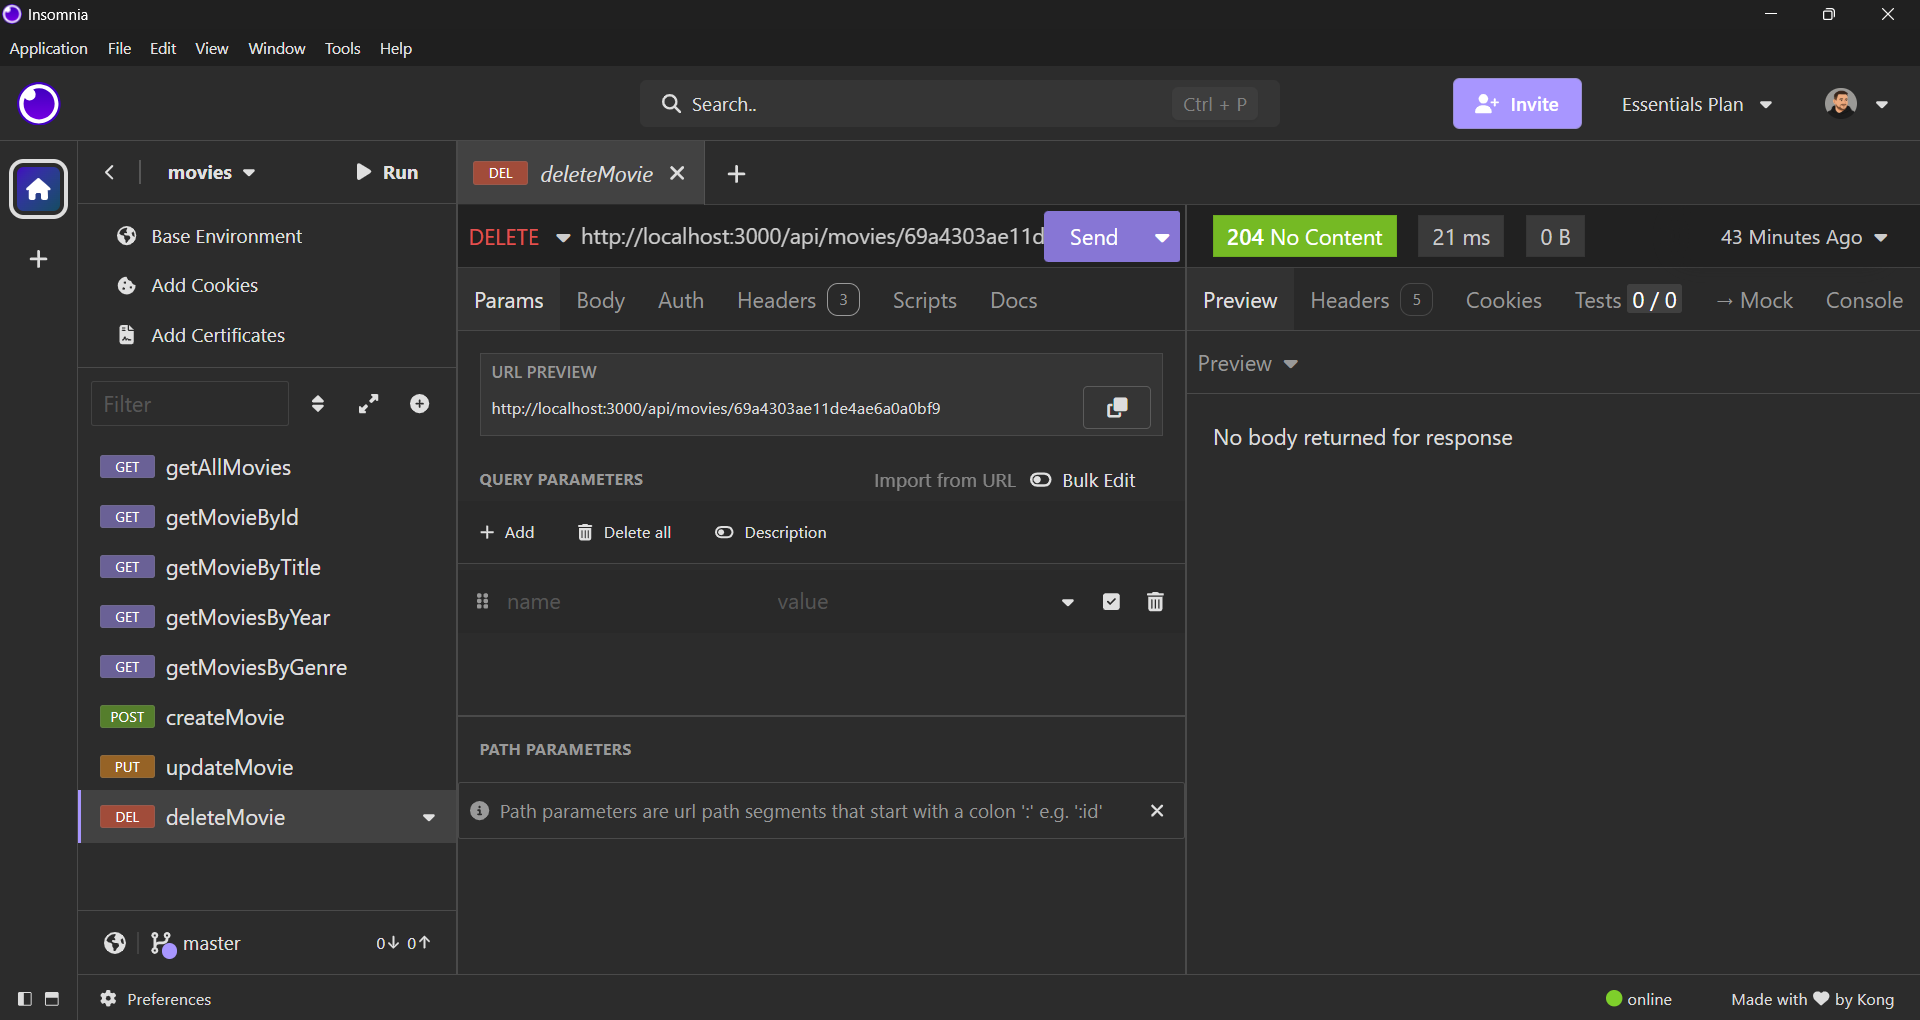
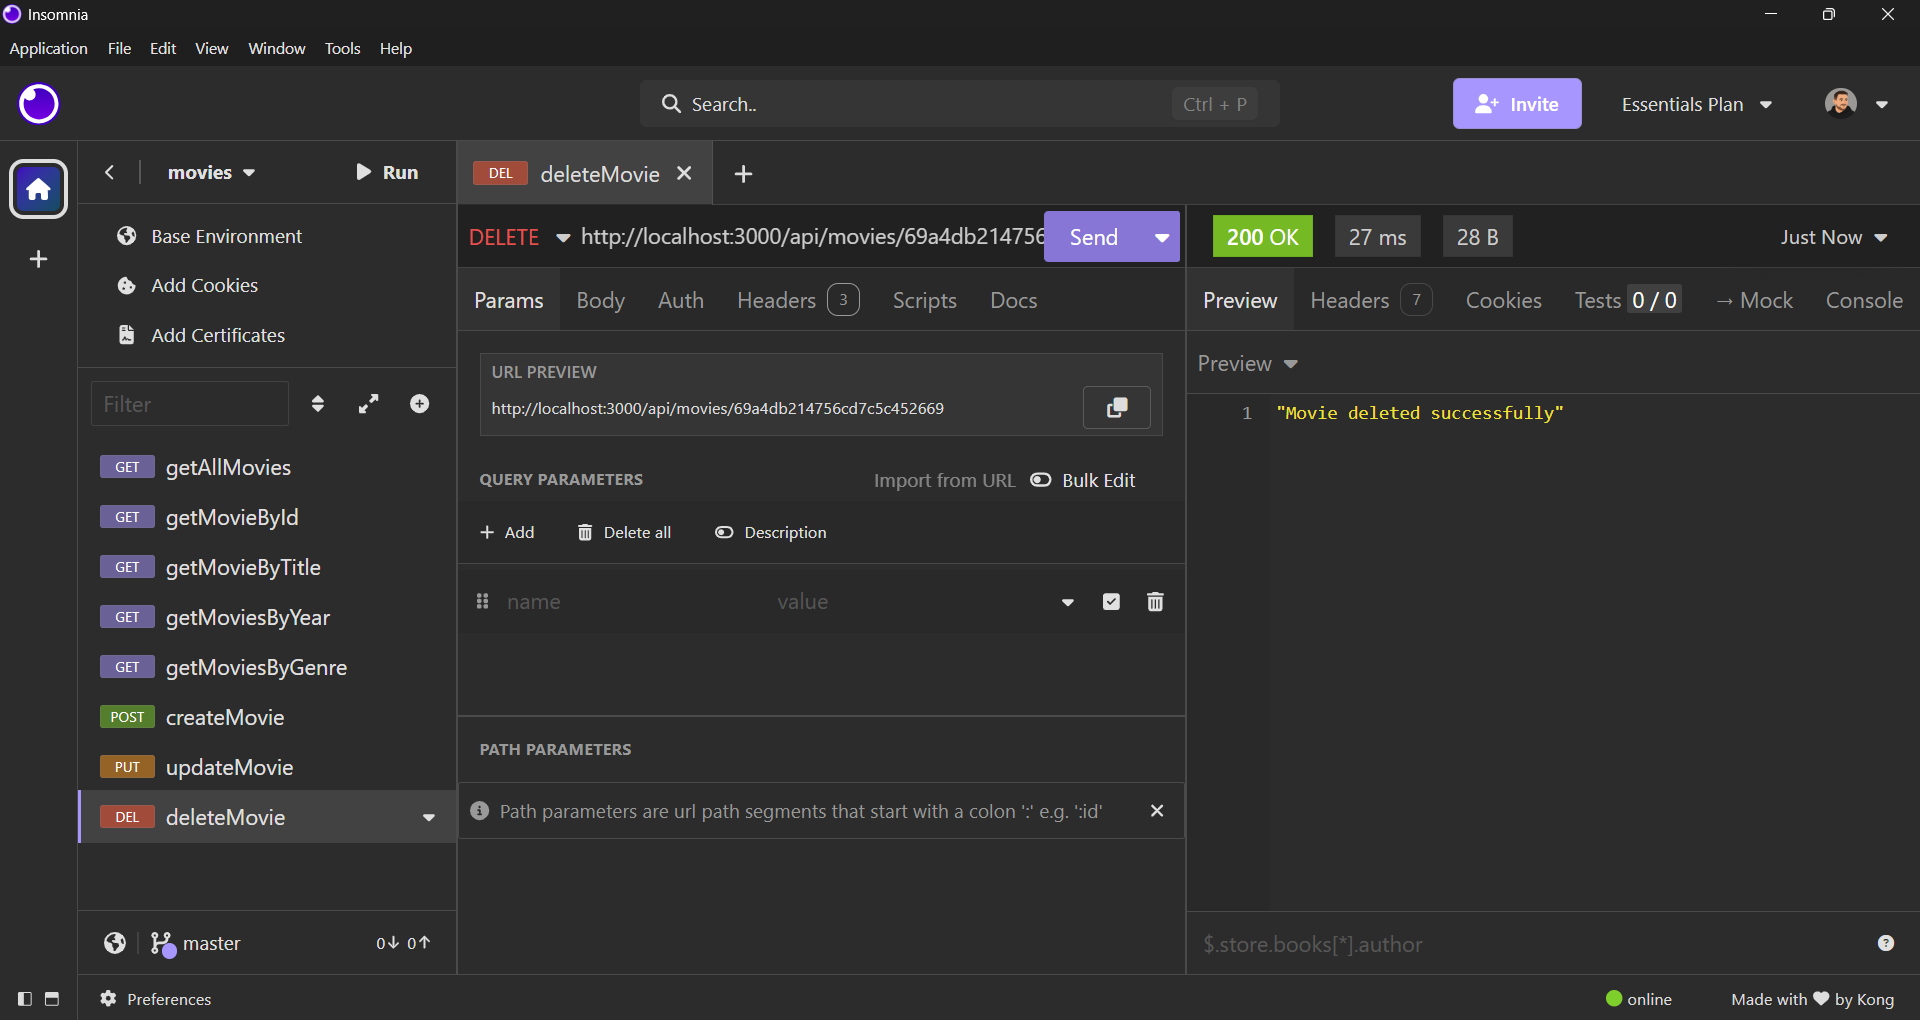
fix: change response status code to 200 for successful movie deletion

diff --git a/src/api/controllers/movies.controllers.js b/src/api/controllers/movies.controllers.js
@@ -94,7 +94,7 @@ const deleteMovie = async (req, res) => {
     if (!deletedMovie || deletedMovie.length === 0) {
       return res.status(404).json("No movie found by this id");
     }
-    return res.status(204).json("Movie deleted successfully");
+    return res.status(200).json("Movie deleted successfully");
   } catch (error) {
     return res.status(500).json(error);
   }
